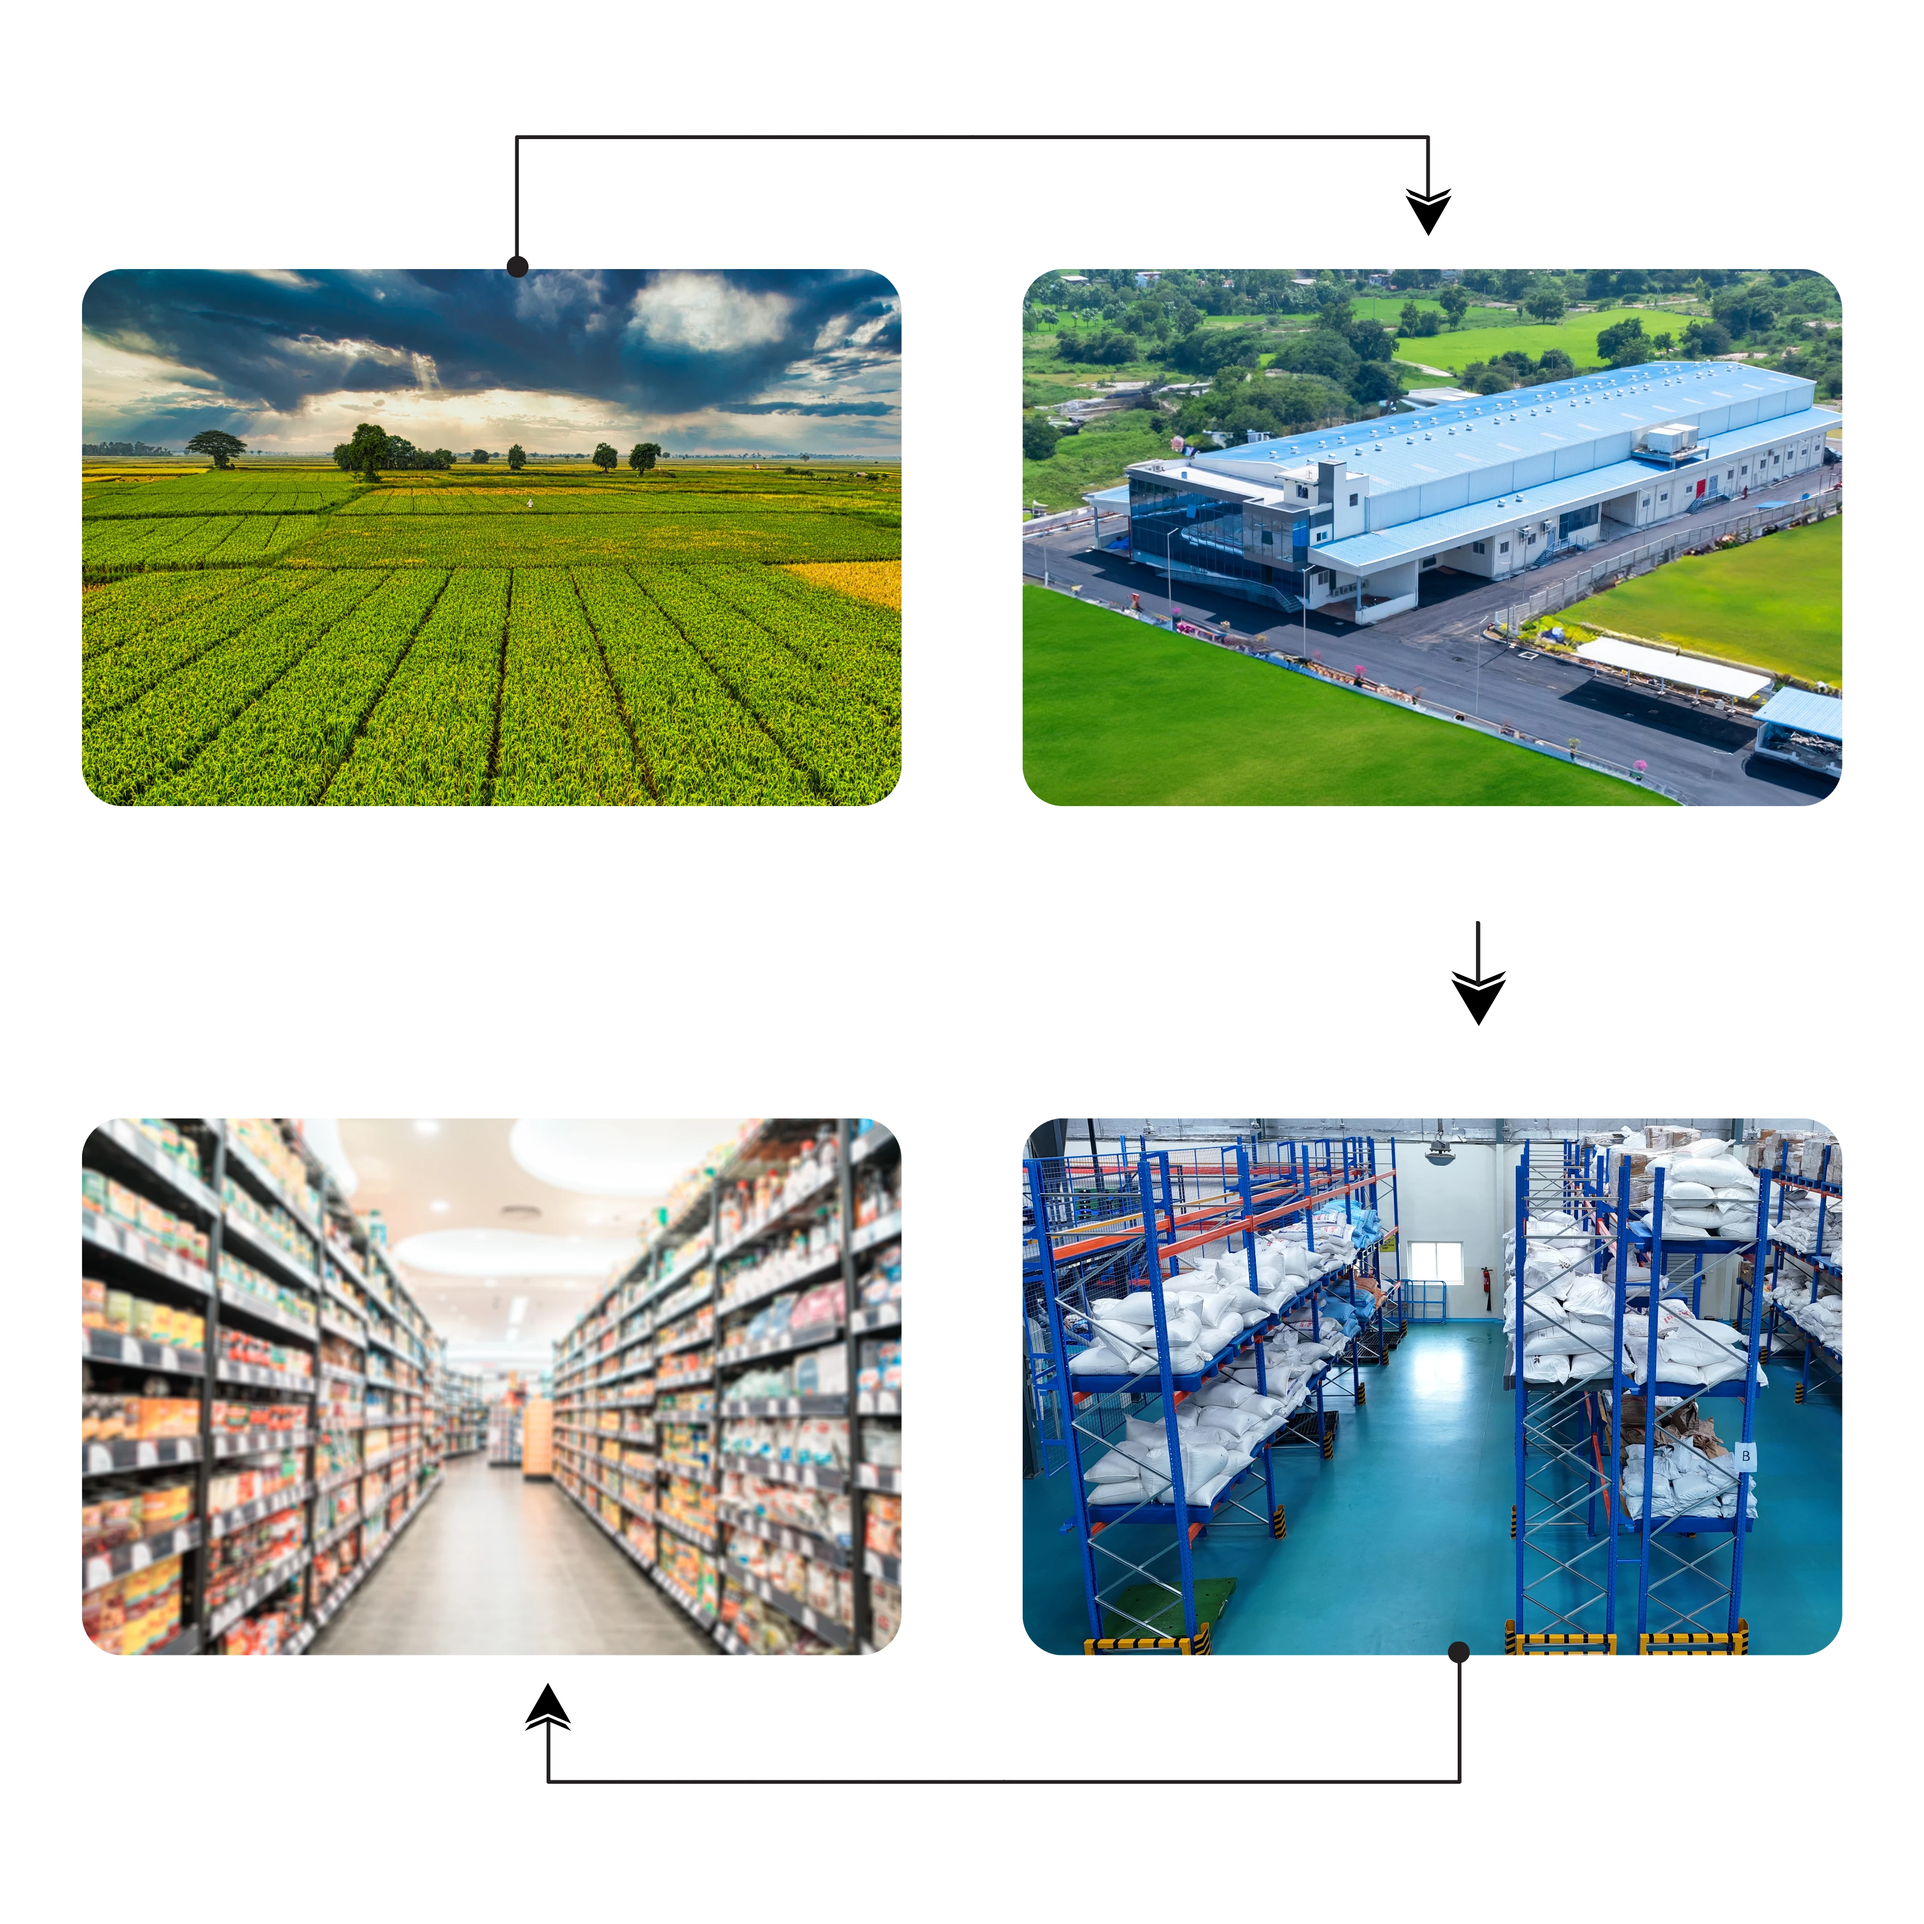
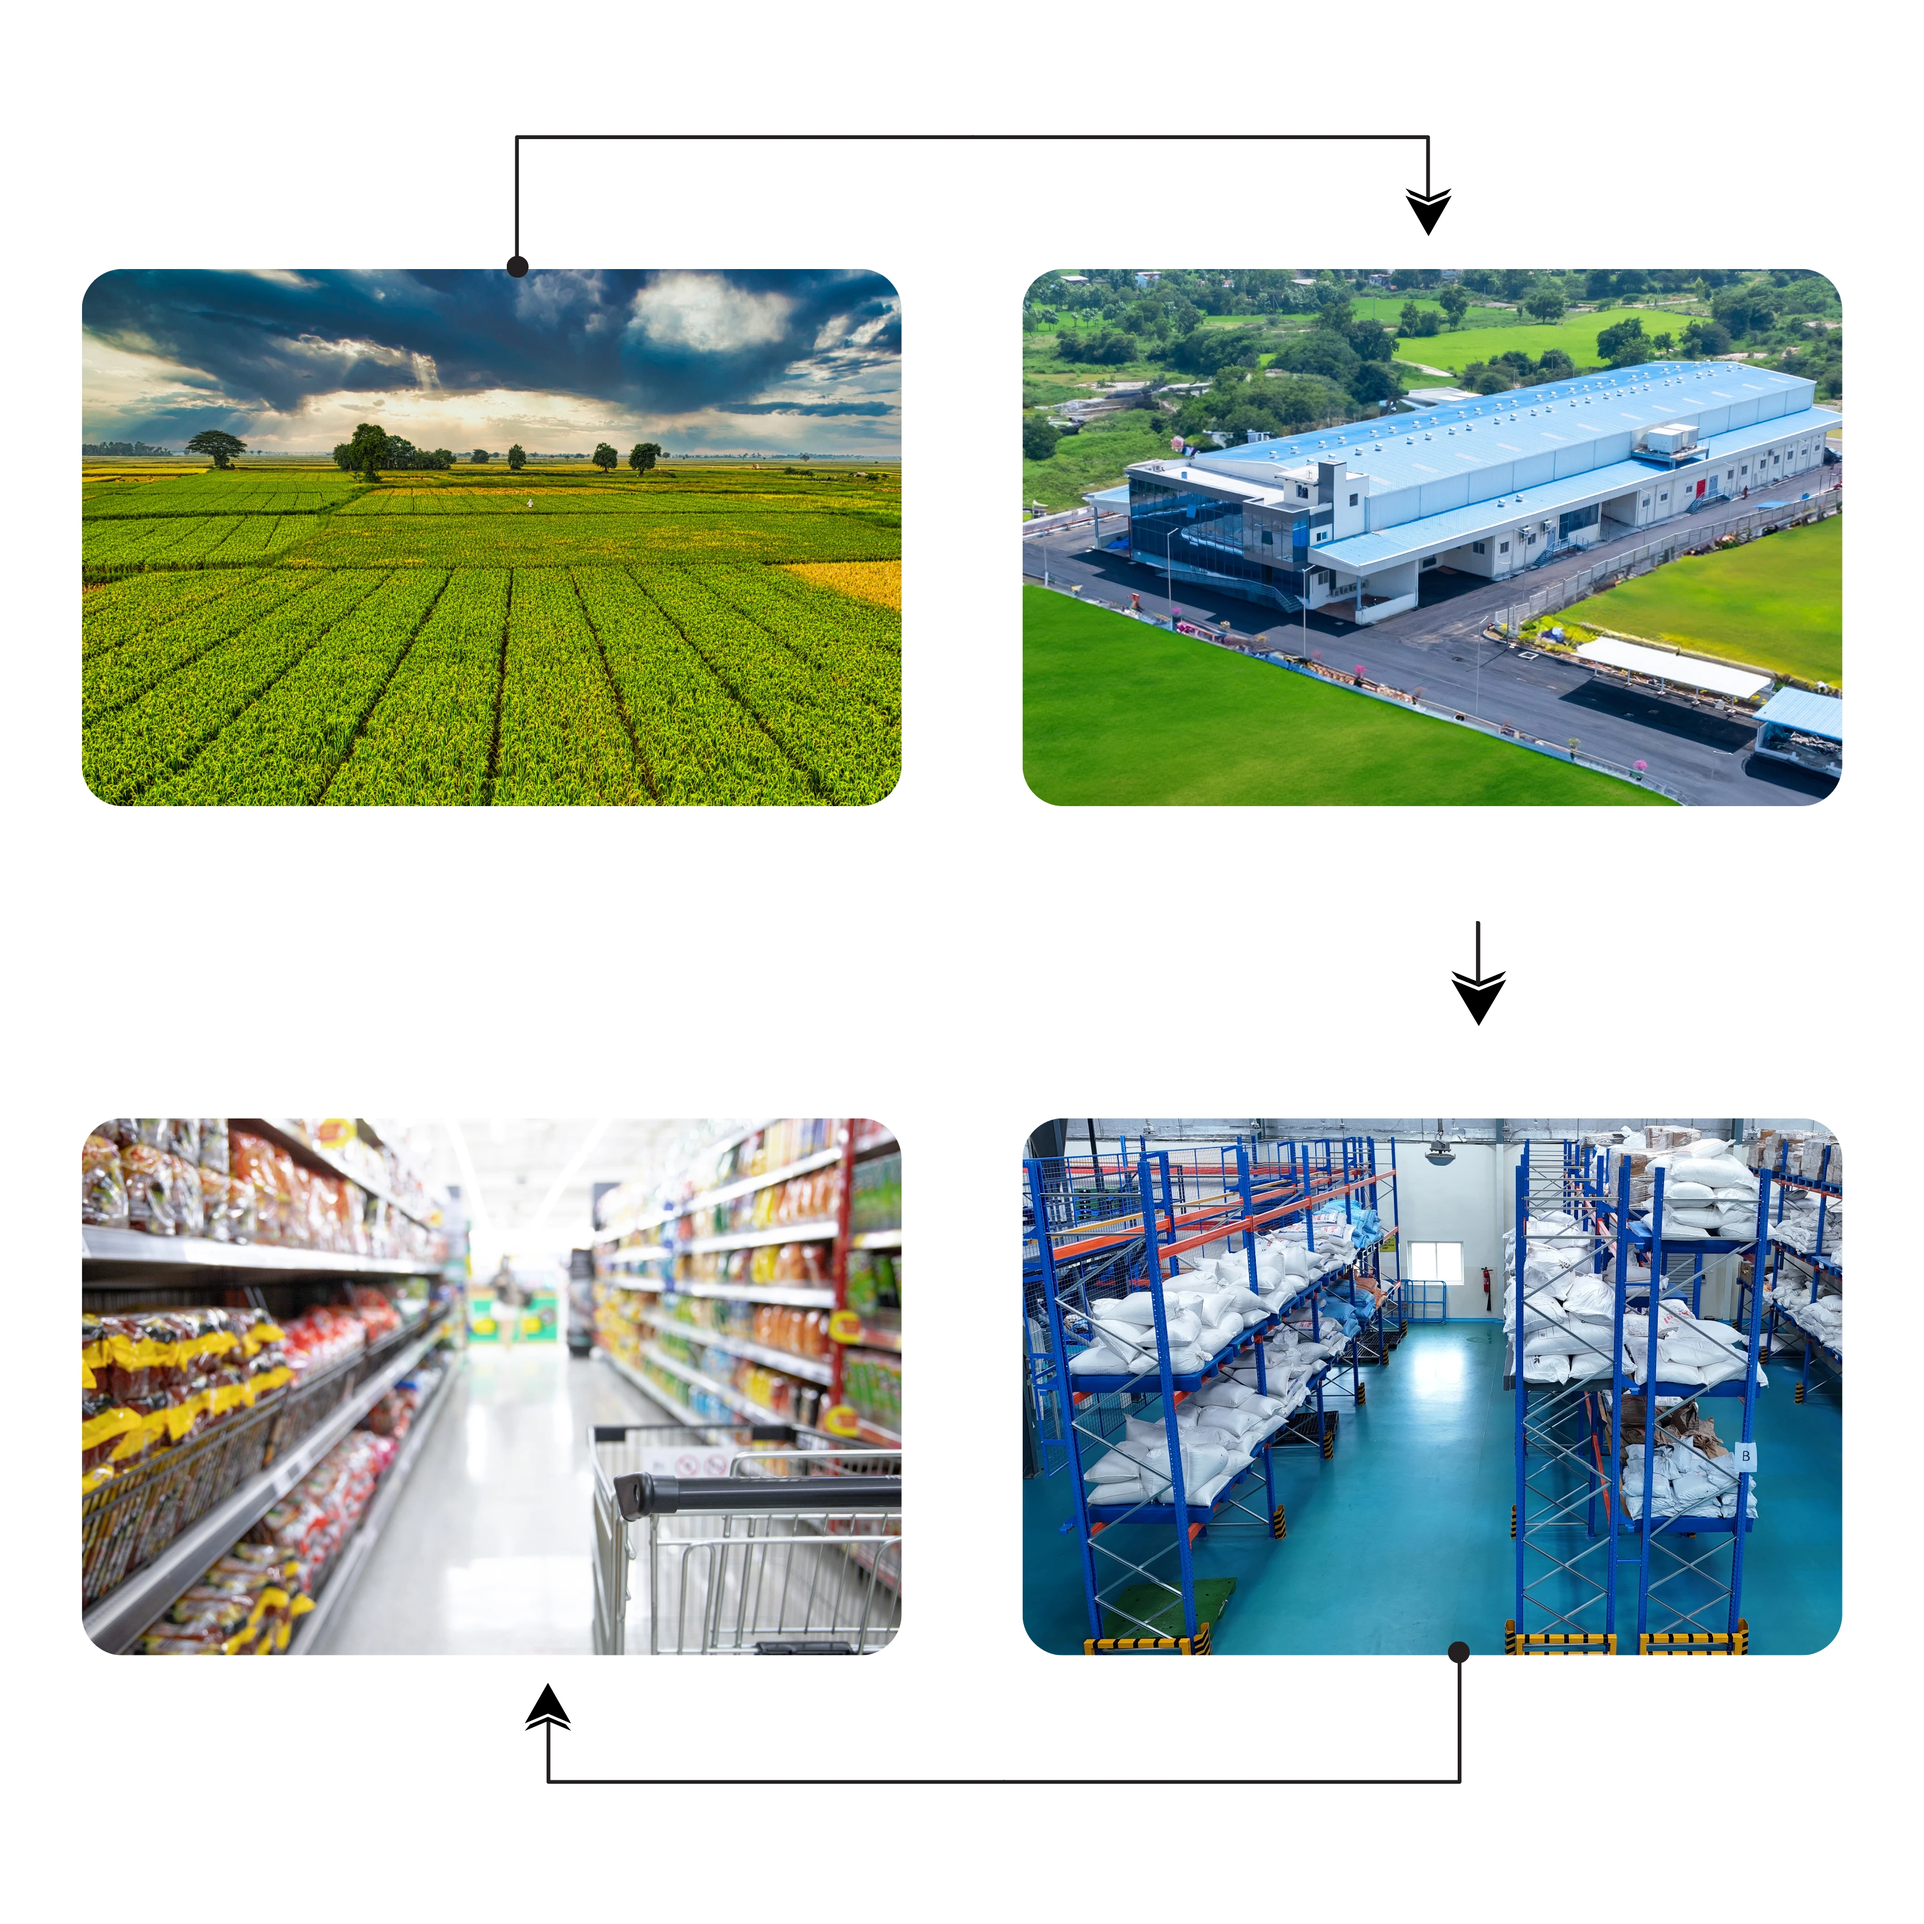
site mapping

Changed region(s): [[0.0311, 0.56, 0.4667, 0.8711]]

diff --git a/src/components/Menu.js b/src/components/Menu.js
@@ -3,10 +3,14 @@
 import { useState } from 'react';
 import Link from 'next/link';
 import Image from 'next/image';
+import { usePathname } from 'next/navigation';
 import { FiMenu, FiX } from 'react-icons/fi';
 
 export default function Menu() {
   const [isOpen, setIsOpen] = useState(false);
+  const pathname = usePathname();
+
+  const isActive = (path) => pathname === path;
 
   return (
     <header className="fixed top-0 left-0 right-0 z-50 w-full bg-[var(--main-bg)]/90 backdrop-blur-md border-b border-neutral-200/40 shadow-sm transition-all duration-300">
@@ -23,12 +27,11 @@ export default function Menu() {
         </Link>
 
         {/* Desktop Nav */}
-        <nav className="hidden md:flex gap-8 text-[var(--text-primary)] font-medium">
-          <Link href="/" className="hover:text-[var(--button-primary)] transition">Home</Link>
-          <Link href="/about" className="hover:text-[var(--button-primary)] transition">About</Link>
-          
-          <Link href="/product" className="hover:text-[var(--button-primary)] transition">Products</Link>
-          <Link href="/contact" className="hover:text-[var(--button-primary)] transition">Contact</Link>
+        <nav className="hidden md:flex gap-8 text-[var(--text-primary)] font-medium items-center">
+          <Link href="/" className={`transition ${isActive('/') ? 'text-[var(--button-primary)] font-bold' : 'hover:text-[var(--button-primary)]'}`}>Home</Link>
+          <Link href="/about" className={`transition ${isActive('/about') ? 'text-[var(--button-primary)] font-bold' : 'hover:text-[var(--button-primary)]'}`}>About</Link>
+          <Link href="/product" className={`transition ${isActive('/product') ? 'text-[var(--button-primary)] font-bold' : 'hover:text-[var(--button-primary)]'}`}>Products</Link>
+          <Link href="/contact" className={`transition ${isActive('/contact') ? 'text-[var(--button-primary)] font-bold' : 'hover:text-[var(--button-primary)]'}`}>Contact</Link>
         </nav>
 
         {/* Active Shop Button */}
@@ -52,11 +55,10 @@ export default function Menu() {
       {/* Mobile Dropdown */}
       {isOpen && (
         <div className="absolute top-full left-0 right-0 md:hidden mt-0 space-y-4 text-[var(--text-primary)] font-semibold bg-[var(--main-bg)]/95 backdrop-blur-md p-6 shadow-xl border-b border-neutral-200/50 animate-fade-in">
-          <Link href="/" onClick={() => setIsOpen(false)} className="block hover:text-[var(--button-primary)]">Home</Link>
-          <Link href="/about" onClick={() => setIsOpen(false)} className="block hover:text-[var(--button-primary)]">About</Link>
-          
-          <Link href="/product" onClick={() => setIsOpen(false)} className="block hover:text-[var(--button-primary)]">Products</Link>
-          <Link href="/contact" onClick={() => setIsOpen(false)} className="block hover:text-[var(--button-primary)]">Contact</Link>
+          <Link href="/" onClick={() => setIsOpen(false)} className={`block transition ${isActive('/') ? 'text-[var(--button-primary)] font-bold' : 'hover:text-[var(--button-primary)]'}`}>Home</Link>
+          <Link href="/about" onClick={() => setIsOpen(false)} className={`block transition ${isActive('/about') ? 'text-[var(--button-primary)] font-bold' : 'hover:text-[var(--button-primary)]'}`}>About</Link>
+          <Link href="/product" onClick={() => setIsOpen(false)} className={`block transition ${isActive('/product') ? 'text-[var(--button-primary)] font-bold' : 'hover:text-[var(--button-primary)]'}`}>Products</Link>
+          <Link href="/contact" onClick={() => setIsOpen(false)} className={`block transition ${isActive('/contact') ? 'text-[var(--button-primary)] font-bold' : 'hover:text-[var(--button-primary)]'}`}>Contact</Link>
 
           {/* Active Shop Button */}
           <button

diff --git a/src/components/FunctionalSlider.js b/src/components/FunctionalSlider.js
@@ -6,6 +6,8 @@ import { Autoplay, Navigation, Pagination } from "swiper/modules";
 import { motion } from "framer-motion";
 import Image from "next/image";
 
+import { useRouter } from "next/navigation";
+
 // Import Swiper styles
 import "swiper/css";
 import "swiper/css/navigation";
@@ -15,26 +17,33 @@ const banners = [
   {
     name: "Millet Muesli",
     img: "/Banners/Millet Muesli Banner.png",
+    link: "/product?category=Muesli",
   },
   {
     name: "Milk Mixes",
     img: "/Banners/Milk Mixes Banner.png",
+    link: "/product?category=Milk Mixes",
   },
   {
     name: "Quinoa",
     img: "/Banners/Quinoa Banner.png",
+    link: "/product?category=Cereals",
   },
   {
     name: "Snacks",
     img: "/Banners/SNACKS Banner.png",
+    link: "/product?category=Snacks",
   },
   {
     name: "Bars",
     img: "/Banners/Bars Banner.png",
+    link: "/product?category=Bars",
   },
 ];
 
 export default function FunctionalSlider() {
+  const router = useRouter();
+
   return (
     <section className="w-full bg-[var(--main-bg)] pt-12 lg:pt-16 pb-12 md:pb-16 px-4 md:px-8 lg:px-16">
       <div className="max-w-7xl mx-auto">
@@ -75,7 +84,11 @@ export default function FunctionalSlider() {
           >
             {banners.map((banner, index) => (
               <SwiperSlide key={index}>
-                <div className="relative w-full" style={{ paddingBottom: "35%" }}>
+                <div 
+                  className="relative w-full cursor-pointer group" 
+                  style={{ paddingBottom: "35%" }}
+                  onClick={() => router.push(banner.link)}
+                >
                   <Image
                     src={banner.img}
                     alt={banner.name}
@@ -83,7 +96,7 @@ export default function FunctionalSlider() {
                     priority={index === 0}
                     unoptimized
                     sizes="(max-width: 768px) 100vw, 100vw"
-                    className="object-cover object-center"
+                    className="object-cover object-center transition-transform duration-700 group-hover:scale-[1.015]"
                   />
                 </div>
               </SwiperSlide>

diff --git a/src/components/Footer.js b/src/components/Footer.js
@@ -88,16 +88,7 @@ export default function Footer() {
           <h4 className="text-white font-bold text-sm tracking-wider uppercase font-satoshi">Follow Us</h4>
           <div className="flex justify-center md:justify-start space-x-3">
             <a 
-              href="https://www.facebook.com/profile.php?id=61576634257472" 
-              target="_blank" 
-              rel="noopener noreferrer" 
-              aria-label="Facebook"
-              className="w-9 h-9 rounded-full bg-white/10 hover:bg-[#345A2B] hover:text-white flex items-center justify-center text-stone-300 transition-all duration-300 hover:scale-105"
-            >
-              <FaFacebookF size={14} />
-            </a>
-            <a 
-              href="https://www.instagram.com/mr.flakesnutrix/" 
+              href="https://www.instagram.com/farmik_official/" 
               target="_blank" 
               rel="noopener noreferrer" 
               aria-label="Instagram"

diff --git a/src/components/ContactSection.js b/src/components/ContactSection.js
@@ -190,7 +190,7 @@ export default function ContactSection() {
                 <div>
                   <p className="text-[10px] uppercase tracking-widest text-green-200/70 font-semibold mb-3">Office Hours</p>
                   <p className="text-sm font-semibold">Monday – Saturday</p>
-                  <p className="text-xs text-green-100/70 mt-0.5">9:00 AM – 6:00 PM IST</p>
+                  <p className="text-xs text-green-100/70 mt-0.5">10:00 AM – 6:00 PM IST</p>
                 </div>
               </div>
             </motion.div>

diff --git a/src/components/LatestLaunch.js b/src/components/LatestLaunch.js
@@ -84,12 +84,7 @@ export default function LatestLaunch() {
                   ))}
                 </div>
 
-                {/* Action button */}
-                <div>
-                  <button className="inline-flex items-center gap-2 text-sm font-semibold text-[var(--button-primary)] hover:opacity-85 transition-opacity">
-                    Learn More <ArrowRight size={16} />
-                  </button>
-                </div>
+
               </div>
             </motion.div>
           ))}

diff --git a/src/components/CategorySlider.js b/src/components/CategorySlider.js
@@ -9,7 +9,7 @@ export default function CategorySlider() {
   const categories = [
     {
       label: "Millet",
-      category: "Millet",
+      category: "Muesli",
       image: "/cateogories/MILLET.png",
     },
     {
@@ -19,7 +19,7 @@ export default function CategorySlider() {
     },
     {
       label: "Quinoa",
-      category: "Quinoa",
+      category: "Cereals",
       image: "/cateogories/QUINOA.png",
     },
     {
